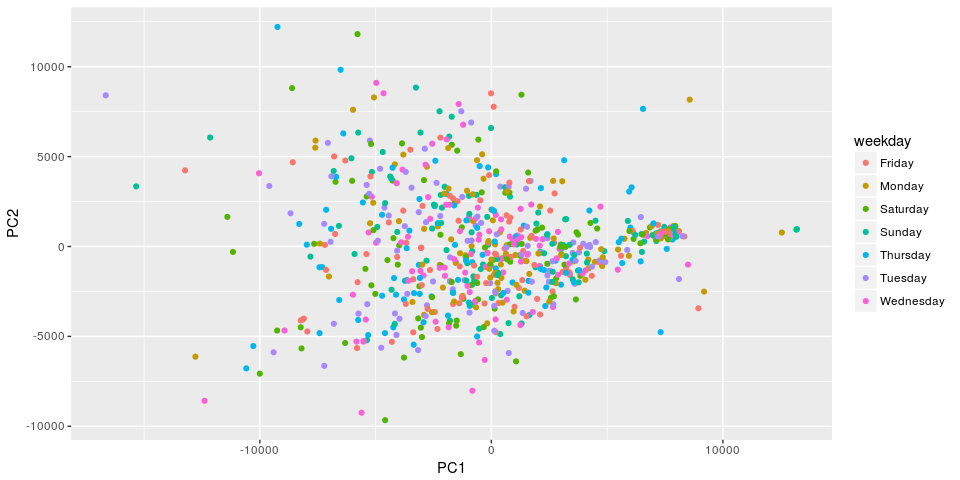
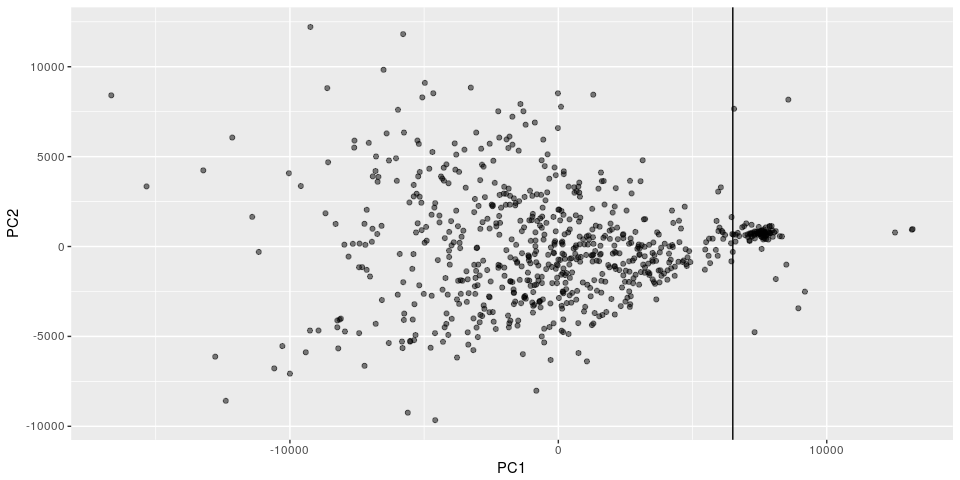
Finish off finding vacant profiles

diff --git a/aggregated.md b/aggregated.md
@@ -129,19 +129,6 @@ The data are in whitespace delimited files with Unix timestamp and power
 measured.
 
     library(tidyverse)
-
-    ## Loading tidyverse: ggplot2
-    ## Loading tidyverse: tibble
-    ## Loading tidyverse: tidyr
-    ## Loading tidyverse: readr
-    ## Loading tidyverse: purrr
-    ## Loading tidyverse: dplyr
-
-    ## Conflicts with tidy packages ----------------------------------------------
-
-    ## filter(): dplyr, stats
-    ## lag():    dplyr, stats
-
     h1_data <- read_table(house1_file, col_names = F) %>%
         rename(timestamp = X1, power = X2) %>%
         mutate(timestamp = as.POSIXct(timestamp, origin = "1970/01/01"),
@@ -207,8 +194,17 @@ When was the maximum power load seen for house 1?
     ##                <dttm> <int>
     ## 1 2014-05-16 08:13:39  8423
 
-This value and time of day is quite consistent with someone taking a
-morning shower.
+    h1_data %>% 
+        select(timestamp, power) %>% 
+        top_n(-1, power)
+
+    ## # A tibble: 1 x 2
+    ##             timestamp power
+    ##                <dttm> <int>
+    ## 1 2012-11-14 20:15:28    46
+
+This max value and time of day is quite consistent with someone taking a
+morning shower. The min value is non-negative, so sensible.
 
 ### Seasonal variation
 
@@ -238,12 +234,127 @@ resolution down to the minutes level.
 
     pca1 <- prcomp(vecs1)
 
+    plot(pca1)
+
+![](aggregated_files/figure-markdown_strict/h1_standardize-1.png)
+
     h1_data_std_pca <- h1_data_std %>%
         select(year, month, day, weekday) %>%
         bind_cols(as_data_frame(pca1$x[, 1:3]))
 
     h1_data_std_pca %>% 
-        ggplot(aes(x = PC1, y = PC2, colour = weekday)) + 
-        geom_point()
+        ggplot(aes(x = PC1, y = PC2)) + 
+        geom_point(alpha = 0.5) +
+        geom_vline(xintercept = 6500)
 
 ![](aggregated_files/figure-markdown_strict/h1_pca-1.png)
+
+There's a compact cluster at PC1 &gt; 6500, with wide scatter at lower
+PC1 values. Can we find anything associated with this compact cluster?
+The figure below shows the relevant PCA vectors. The top plot shows the
+average diurnal power profile. The unsurprising low and quiescent night
+usage is following by a ramping up in the morning. The daytime average
+consumption stays reasonably high and spikey with a slight lull at about
+3pm before climbing for the evening peak, which actually seems to
+present as a couple of peaks around 6:30pm and 8pm (dashed vertical
+lines). The compact cluster then is associated mostly with lower than
+average daytime consumption.
+
+    par(mfrow = c(2, 1))
+    plot(x = (0:1439)/60, y = pca1$center, 
+         type = "l", main = "PCA mean vector",
+         xlab = "Hour of day", ylab = "Mean power")
+    abline(v = 18.5, lty = 2)
+    abline(v = 20, lty = 2)
+    plot(x = (0:1439)/60, y = pca1$rotation[, 1], 
+         type = "l", main = "PCA first loadings",
+         xlab = "Hour of day", ylab = "PC1 loadings")
+
+![](aggregated_files/figure-markdown_strict/h1_pca_explore-1.png)
+
+    h1_data_std_pca <- h1_data_std_pca %>%
+        mutate(high_PC1 = PC1 > 6500)
+
+Another way of looking at this PCA score is by date, as shown below. The
+lower values of PC1 exhibit a clear seasonal variation, whereas the
+higher score values do not. Given the interpretation from the loadings
+that these higher PC1 scores are associated with lower than average
+daytime power consumption, that this level is quite consistent, and that
+they occur in some sort of discrete clumps, we might hypothesize that
+this is associated with the house being vacant and with no human
+activity superimposed on its base load.
+
+    h1_data_std_pca %>% 
+        unite(date, year, month, day, sep="/") %>% 
+        mutate(date = as.Date(date)) %>% 
+        ggplot() + 
+        geom_point(aes(x = date, y = PC1, colour = high_PC1)) +
+        labs(title = "House 1 showing strong seasonal variation in the lower PC1 scores") +
+        geom_vline(data = data.frame(date = as.Date(c("2013/03/31", "2014/04/20")), holiday = "Easter"),
+                   aes(xintercept = date, linetype = holiday))
+
+![](aggregated_files/figure-markdown_strict/h1_PC1_seasonal-1.png)
+
+We can pick out the diurnal power utilization profiles for these
+proposed vacant days. Below we look at the first 9.
+
+    vacant <- h1_data_std_pca$high_PC1
+    x <- (0:1439)/60
+    par(mfrow = c(3, 3))
+    for (i in 1:9) {
+        plot(x, vecs1[vacant, ][i, ], type = "l",
+             xlab = "Hour", ylab = "Power")
+    }
+
+![](aggregated_files/figure-markdown_strict/h1_vacant_a-1.png)
+
+**Oh dear** This isn't what we were hoping for! It looks like these are
+just bad days of data (recall when creating the standardized diurnal
+profiles we filled any missing values with 0) rather than anything more
+interesting. But our PCA loadings definitely suggested an interpretation
+consistent with lower than average daytime values, and not just random
+drop out. Let's persevere. Below we plot numbers 11 through 19. Now we
+see just one brief drop-out, and one day with anomalous high power draw
+over 2 kW, but apart from those, the profiles seem to show little to no
+diurnal pattern. There are two with a curious slightly elevated range
+from around 8 am to 8 pm of the order of a light bulb equivalent. It's
+interesting that these are a Saturday and Sunday. Otherwise, we do
+appear to have identified days where the only events occuring are the
+baseline "heartbeat" of the house (e.g. refridgerator).
+
+    vacant <- h1_data_std_pca$high_PC1
+    weekday <- h1_data_std_pca$weekday[h1_data_std_pca$high_PC1]
+    x <- (0:1439)/60
+    par(mfrow = c(3, 3))
+    for (i in 11:19) {
+        plot(x, vecs1[vacant, ][i, ], type = "l",
+             xlab = "Hour", ylab = "Power",
+             main = weekday[i])
+    }
+
+![](aggregated_files/figure-markdown_strict/h1_vacant_b-1.png)
+
+Summary
+=======
+
+In this short note we have started to explore some high frequency (6 s
+interval) electricity power consumption data from a house and
+demonstrated that the application of PCA to standardized (to the minute)
+diurnal power profiles can identify candidate periods of vacancy. These
+then provide good opportunities for extracting (isolating) a relatively
+few background features of appliances running in the house without
+showers, toasters, kettles etc. randomly superposing themselves.
+
+It is far from perfect. In the interest of quickly demonstrating a proof
+of concept, a cluster of days was identified by application of a single
+threshold on the first principal component. More sophisticated methods
+would likely better isolate desired profiles.
+
+Further work
+============
+
+As well as using such baseline, relatively consistent profiles to
+identify the characteristics of some primary household signals that
+could then be detected in more variable (messy) data, this approach
+could also be of interest applied to multiple households to see if there
+were any clusters of similar households.
